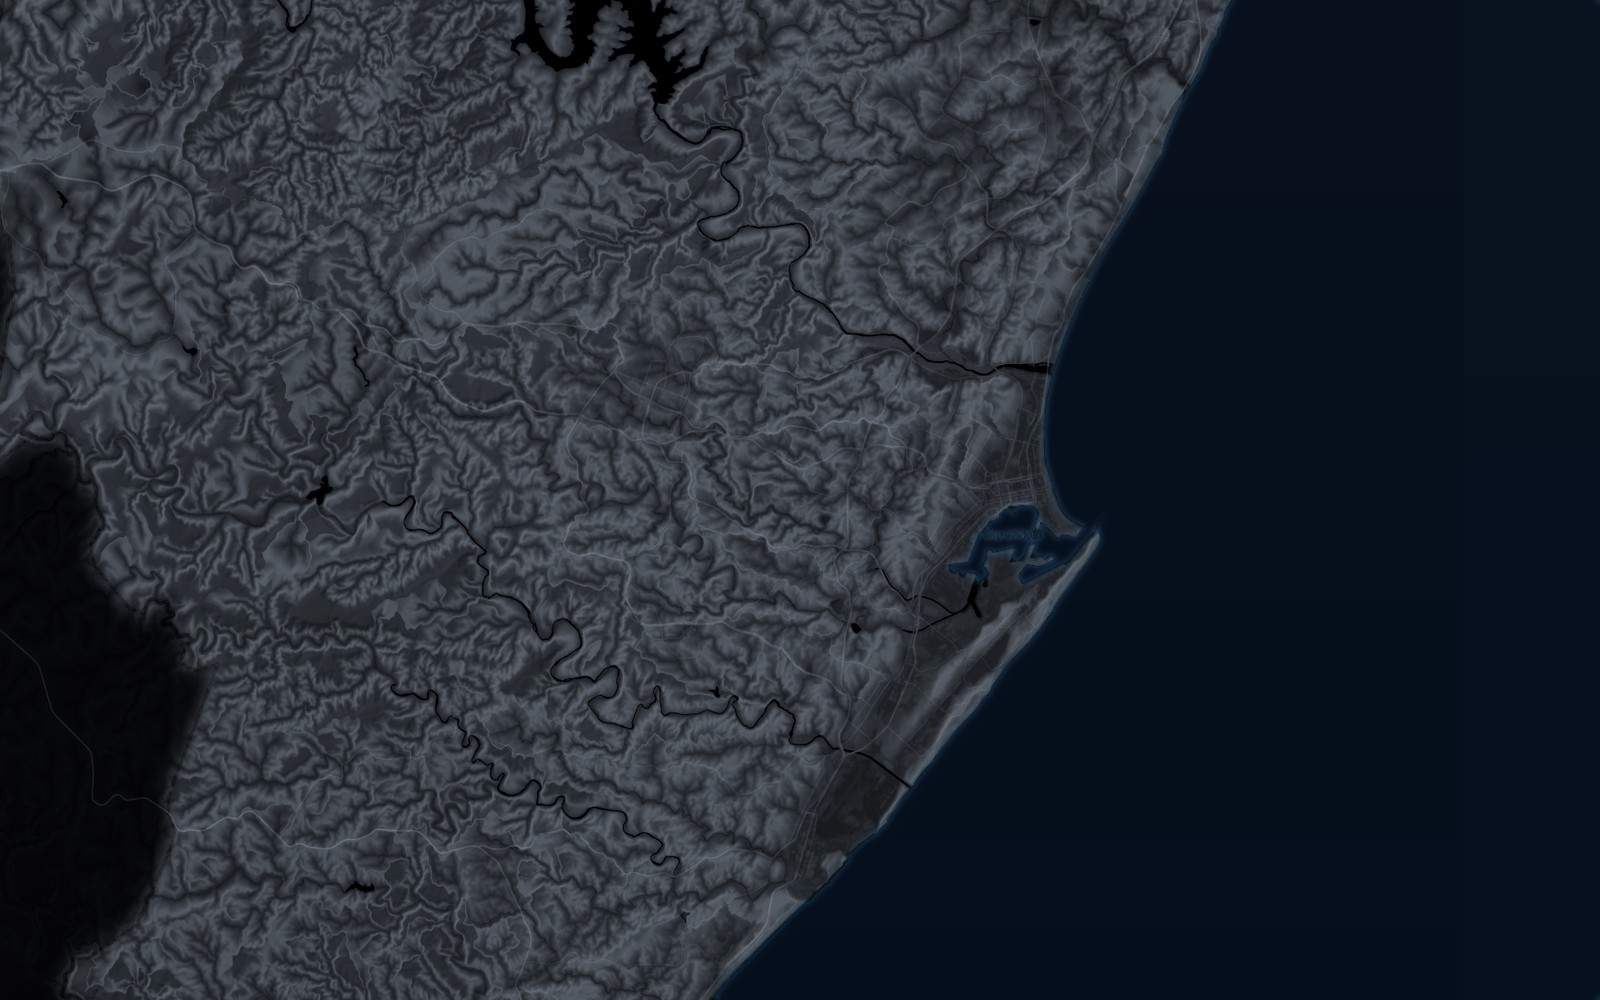
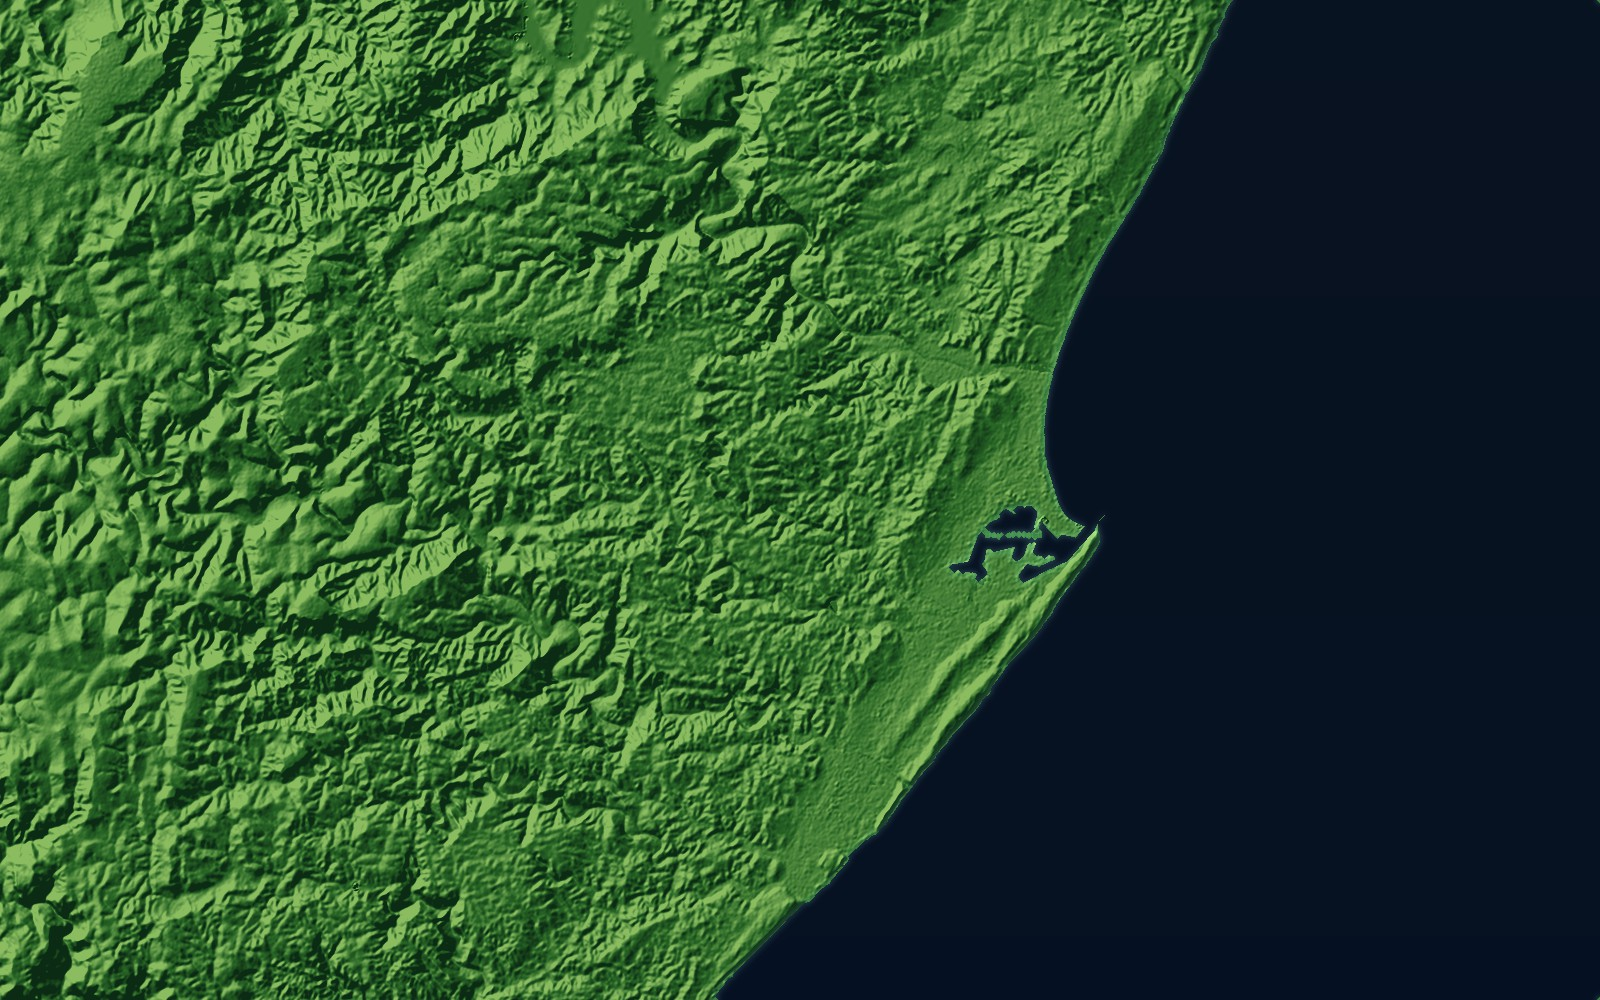
Veins mockup: lush green terrain, sites drop first, flood-line sites pulse, satellite last

diff --git a/mockups/map-open/veins-mockup.html b/mockups/map-open/veins-mockup.html
@@ -34,37 +34,41 @@ h1{margin:0;font:800 clamp(24px,3.4vw,34px)/1.05 var(--sans);letter-spacing:-.03
 </style>
 
 <div class="wrap">
-  <header><div><p class="kick">Moved Into the Water · design only</p><h1>Opening: the flood line grows in from the sea</h1></div><span class="tag">Live mockup · not the site</span></header>
+  <header><div><p class="kick">Moved Into the Water · design only</p><h1>Opening: sites land, the flood line grows in from the sea</h1></div><span class="tag">Live mockup · not the site</span></header>
   <div class="stage" id="stage">
     <canvas id="c"></canvas>
     <div class="ctl"><button type="button" id="replay">↺ Replay</button><label><input type="checkbox" id="anim" checked aria-label="Animation on or off">Animation</label></div>
-    <div class="cap" aria-live="polite"><div class="k" id="ck">Durban, South Africa</div><h2 id="ch">A coastal city</h2><p id="cp">Where twelve rivers meet the Indian Ocean.</p></div>
+    <div class="cap" aria-live="polite"><div class="k" id="ck">Durban, South Africa</div><h2 id="ch">A coastal city</h2><p id="cp">Green hills running down to the Indian Ocean.</p></div>
     <div class="bar"><i id="bar"></i></div>
     <div class="cr">Basemap: Esri, HERE, Garmin, © OpenStreetMap · flood line and rivers: eThekwini Municipality · relief: AWS Terrain Tiles</div>
   </div>
   <section class="notes">
-    <div class="note"><h3>How it moves</h3><p>The map opens still. Then the city's own rivers and 1-in-100-year flood plain spread inland from the coast, following the water, with a bright front like veins. The 12 relocation sites land as the water reaches them.</p></div>
+    <div class="note"><h3>How it moves</h3><p>A lush green coastal map opens. The 12 relocation sites drop in. Then the city's own rivers and 1-in-100-year flood plain grow inland from the coast like veins; each site within 250 m of the flood line pulses red as the water reaches it. Real satellite colour arrives last.</p></div>
     <div class="note"><h3>On or off</h3><p>The Animation switch turns motion off and shows the finished map at once (and it is off automatically for anyone whose device asks for reduced motion). Replay runs it again.</p></div>
     <div class="note"><h3>What is real</h3><p>Every pixel of water is the city's real flood plain and river network, and the sites are their real positions. The growth from the sea is an animation of the map appearing, not a flood simulation.</p></div>
   </section>
 </div>
 
 <script>
-const PINS=[{"name": "Lamontville riverside camp", "x": 835.4, "y": 747.0, "g": 0.05367052280809434}, {"name": "Larger Gwala Street camp", "x": 837.0, "y": 745.2, "g": 0.12442040032722143}, {"name": "Lindelani camp", "x": 811.4, "y": 120.8, "g": 0.34763957513939786}, {"name": "Congo camp", "x": 812.1, "y": 62.5, "g": 0.3748291869283738}, {"name": "Astra Building", "x": 993.7, "y": 494.4, "g": 0.0630201793713017}, {"name": "Crystal Valley", "x": 891.9, "y": 363.4, "g": 0.1957089599283343}, {"name": "Point Road", "x": 1062.8, "y": 521.1, "g": 0.05293491610007834}, {"name": "Bayside Hotel", "x": 1036.3, "y": 487.3, "g": 0.06101900333819297}, {"name": "KwaDimba", "x": 555.5, "y": 481.6, "g": 0.2599619173219682}, {"name": "Frazer Compound", "x": 1268.5, "y": -355.0, "g": 0.04625208846375037}, {"name": "Montclair Lodge", "x": 897.6, "y": 656.1, "g": 0.1344377437204083}, {"name": "Umbilo residence", "x": 925.7, "y": 571.2, "g": 0.06829158325031658}];
-const BEATS=[[0,'Durban, South Africa','A coastal city','Where twelve rivers meet the Indian Ocean.'],
- [.12,'The water finds its way','The flood line grows in from the sea','The city’s own 1-in-100-year flood plain, spreading up every river valley.'],
- [.62,'Where people were moved','Temporary relocation sites','Families moved after floods, to sites the city called temporary.'],
- [.9,'Now you explore','Click any site to inspect','Every layer together: sites, flood line, rivers and terrain.']];
-const DUR=14000, HOLD=0.08; // ms for the whole sequence; first 8% is the still opening shot
+const PINS=[{"id": "lamontville", "name": "Lamontville riverside camp", "x": 835.4, "y": 747.0, "g": 0.05367052280809434}, {"id": "gwala", "name": "Larger Gwala Street camp", "x": 837.0, "y": 745.2, "g": 0.12442040032722143}, {"id": "lindelani", "name": "Lindelani camp", "x": 811.4, "y": 120.8, "g": 0.34763957513939786}, {"id": "congo", "name": "Congo camp", "x": 812.1, "y": 62.5, "g": 0.3748291869283738}, {"id": "astra", "name": "Astra Building", "x": 993.7, "y": 494.4, "g": 0.0630201793713017}, {"id": "crystal", "name": "Crystal Valley", "x": 891.9, "y": 363.4, "g": 0.1957089599283343}, {"id": "point", "name": "Point Road", "x": 1062.8, "y": 521.1, "g": 0.05293491610007834}, {"id": "bayside", "name": "Bayside Hotel", "x": 1036.3, "y": 487.3, "g": 0.06101900333819297}, {"id": "kwadimba", "name": "KwaDimba", "x": 555.5, "y": 481.6, "g": 0.2599619173219682}, {"id": "frazer", "name": "Frazer Compound", "x": 1268.5, "y": -355.0, "g": 0.04625208846375037}, {"id": "montclair", "name": "Montclair Lodge", "x": 897.6, "y": 656.1, "g": 0.1344377437204083}, {"id": "umbilo", "name": "Umbilo residence", "x": 925.7, "y": 571.2, "g": 0.06829158325031658}];
+const BEATS=[[0,'Durban, South Africa','A coastal city','Green hills running down to the Indian Ocean.'],
+ [.07,'Where people were moved','Temporary relocation sites','After each flood, families were moved to sites the city called temporary.'],
+ [.22,'The water finds its way','The flood line grows in from the sea','The city’s own 1-in-100-year flood plain, spreading up every river valley.'],
+ [.5,'Where they meet','Six of the 12 sites sit at the flood line','Within 250 m of the city’s own flood map. Each one pulses as the water reaches it.'],
+ [.74,'The ground itself','The real terrain','Satellite imagery: the land as it looks today.'],
+ [.92,'Now you explore','Click any site to inspect','Every layer together: sites, flood line, rivers and terrain.']];
+const DUR=20000;
+/* sites within 250 m of the flood line (distance from the pin, see the site's Flood Risk tab) */
+const NEAR={lamontville:'2 m',kwadimba:'37 m',gwala:'56 m',lindelani:'59 m',crystal:'60 m',frazer:'160 m'}; // ms for the whole sequence; first 8% is the still opening shot
 const cv=document.getElementById('c'), x=cv.getContext('2d'), stage=document.getElementById('stage');
 const animEl=document.getElementById('anim'); let t0=performance.now(), raf=0, done=false;
 if(matchMedia('(prefers-reduced-motion: reduce)').matches) animEl.checked=false;
 const load=s=>new Promise(r=>{const i=new Image(); i.onload=()=>r(i); i.src=s;});
-let base,water,lab,G,WD,off,octx,img;
+let base,water,lab,sat,G,WD,off,octx,img;
 const W=1600,H=1000;
 function size(){ const r=stage.getBoundingClientRect(), d=Math.min(2,devicePixelRatio||1); cv.width=Math.round(r.width*d); cv.height=Math.round(r.height*d); }
 (async()=>{
-  [base,water,lab]=await Promise.all([load('veins/base.jpg'),load('veins/water.png'),load('veins/labels.png')]);
+  [base,water,lab,sat]=await Promise.all([load('veins/base.jpg'),load('veins/water.png'),load('veins/labels.png'),load('veins/sat.jpg')]);
   const dimg=await load('veins/dist.png');
   // decode the 16-bit growth field and the water layer once
   const t=document.createElement('canvas'); t.width=W; t.height=H; const tc=t.getContext('2d');
@@ -74,39 +78,49 @@ function size(){ const r=stage.getBoundingClientRect(), d=Math.min(2,devicePixel
   size(); addEventListener('resize',()=>{size(); frame(performance.now());});
   run();
 })();
-function run(){ cancelAnimationFrame(raf); done=false; t0=performance.now(); raf=requestAnimationFrame(frame); }
+function run(){ cancelAnimationFrame(raf); done=false; window._lg=-1; t0=performance.now(); raf=requestAnimationFrame(frame); }
 function caption(p){ let b=BEATS[0]; for(const q of BEATS) if(p>=q[0]) b=q; const ch=document.getElementById('ch');
   if(ch.textContent!==b[2]){ ['ck','ch','cp'].forEach(id=>document.getElementById(id).style.opacity=0);
     setTimeout(()=>{ document.getElementById('ck').textContent=b[1]; ch.textContent=b[2]; document.getElementById('cp').textContent=b[3]; ['ck','ch','cp'].forEach(id=>document.getElementById(id).style.opacity=1); },350); } }
 function frame(now){
   const p=animEl.checked?Math.min(1,(now-t0)/DUR):1;
-  const q=Math.max(0,Math.min(1,(p-HOLD)/(.62-HOLD))), g=Math.pow(q,1.7)*1.15;          // growth front, 0 → past 1 by 60% of the run
+  const q=Math.max(0,Math.min(1,(p-.22)/(.7-.22))), g=Math.pow(q,1.6)*1.15;   // flood front
   const sk=cv.width/W; x.setTransform(sk,0,0,sk,0,(cv.height-H*sk)/2);
-  // slow push-in: 1.06 → 1.0 over the run
-  const z=1.06-.06*Math.min(1,p*1.2); x.translate(W/2,H/2); x.scale(z,z); x.translate(-W/2,-H/2);
+  const z=1.06-.06*Math.min(1,p*1.3); x.translate(W/2,H/2); x.scale(z,z); x.translate(-W/2,-H/2);
   x.drawImage(base,0,0,W,H);
-  // water revealed where its distance from the sea is behind the front; a bright band rides the front
+  const sa=Math.max(0,Math.min(1,(p-.74)/.14));                                     // real terrain last
+  if(sa>0){ x.globalAlpha=sa*.92; x.drawImage(sat,0,0,W,H); x.globalAlpha=1; }
+  // water revealed behind the front; a bright band rides it
   const s=WD.data, o=img.data, band=.045;
+  if(g!==window._lg||sa!==window._ls){ window._lg=g; window._ls=sa;
   for(let i=0,j=0;i<W*H;i++,j+=4){ const a=s[j+3]; if(!a){ o[j+3]=0; continue; } const d=G[i], k=(g-d)/band;
     if(k<=0){ o[j+3]=0; continue; }
     const front=k<1?1-k:0, rev=Math.min(1,k);
-    o[j]=Math.min(255,s[j]+front*150); o[j+1]=Math.min(255,s[j+1]+front*120); o[j+2]=255; o[j+3]=Math.min(255,a*rev+front*120); }
-  octx.putImageData(img,0,0);
+    o[j]=Math.min(255,s[j]+front*150); o[j+1]=Math.min(255,s[j+1]+front*120); o[j+2]=255; o[j+3]=Math.min(255,(a*rev+front*120)*(1-sa*.25)); }
+  octx.putImageData(img,0,0); }
   x.save(); x.shadowColor='rgba(80,170,255,.75)'; x.shadowBlur=10; x.drawImage(off,0,0); x.restore();
   x.globalAlpha=.85; x.drawImage(lab,0,0,W,H); x.globalAlpha=1;
-  // sites land once the front has passed them (and not before 62%)
-  const sp=Math.max(0,(p-.6)/.25);
-  PINS.forEach((q,i)=>{ const local=Math.max(0,Math.min(1,sp*1.6-i*.05)); if(local<=0) return;
-    const e=1-Math.pow(1-local,3), drop=(1-e)*-120, ring=local<1?local:0;
+  // sites drop first (7%–20%), then pulse once the flood front reaches them
+  const sp=Math.max(0,(p-.07)/.13);
+  PINS.forEach((q,i)=>{ const local=Math.max(0,Math.min(1,sp*1.7-i*.06)); if(local<=0) return;
+    const e=1-Math.pow(1-local,3), drop=(1-e)*-140, ring=local<1?local:0;
     x.fillStyle='rgba(0,0,0,'+(.45*e)+')'; x.beginPath(); x.ellipse(q.x,q.y+3,7*e,2.4*e,0,0,7); x.fill();
-    if(ring){ x.strokeStyle='rgba(251,201,0,'+(1-ring)+')'; x.lineWidth=2; x.beginPath(); x.arc(q.x,q.y,6+ring*24,0,7); x.stroke(); }
-    x.beginPath(); x.arc(q.x,q.y+drop,6.5,0,7); x.fillStyle='#FBC900'; x.shadowColor='rgba(251,201,0,.9)'; x.shadowBlur=14; x.fill(); x.shadowBlur=0; x.lineWidth=2; x.strokeStyle='#0b0e14'; x.stroke(); });
+    if(ring){ x.strokeStyle='rgba(251,201,0,'+(1-ring)+')'; x.lineWidth=2; x.beginPath(); x.arc(q.x,q.y,6+ring*20,0,7); x.stroke(); }
+    const hit=NEAR[q.id] && g>=q.g;
+    if(hit){ const age=(now/1000)%1.6/1.6; for(const ph of [0,.5]){ const k2=(age+ph)%1; x.strokeStyle='rgba(255,107,94,'+(.85*(1-k2))+')'; x.lineWidth=2.5; x.beginPath(); x.arc(q.x,q.y,8+k2*42,0,7); x.stroke(); }
+      x.fillStyle='rgba(255,107,94,.18)'; x.beginPath(); x.arc(q.x,q.y,14,0,7); x.fill(); }
+    x.beginPath(); x.arc(q.x,q.y+drop,6.5,0,7); x.fillStyle=hit?'#ff6b5e':'#FBC900'; x.shadowColor=hit?'rgba(255,107,94,.9)':'rgba(251,201,0,.9)'; x.shadowBlur=14; x.fill(); x.shadowBlur=0; x.lineWidth=2; x.strokeStyle='#0b0e14'; x.stroke(); });
+  // labels for the pulsing sites, placed so they do not overlap
+  const used=[]; PINS.filter(q=>NEAR[q.id]&&g>=q.g).forEach(q=>{ let lx=q.x+18, ly=q.y-10; while(used.some(u=>Math.abs(u[1]-ly)<30&&Math.abs(u[0]-lx)<190)) ly-=30; used.push([lx,ly]);
+    const t1=NEAR[q.id]+' from the flood line'; x.font='600 12px Inter'; const w=Math.max(x.measureText(q.name).width,x.measureText(t1).width)+16;
+    x.fillStyle='rgba(6,10,17,.82)'; x.strokeStyle='rgba(255,107,94,.6)'; x.lineWidth=1; x.beginPath(); x.roundRect(lx,ly-14,w,34,6); x.fill(); x.stroke();
+    x.fillStyle='#fff'; x.fillText(q.name,lx+8,ly+1); x.font='500 11px Inter'; x.fillStyle='#ff9b90'; x.fillText(t1,lx+8,ly+15); });
   // vignette and caption shade
   x.setTransform(sk,0,0,sk,0,(cv.height-H*sk)/2);
   const v=x.createRadialGradient(W/2,H/2,H*.35,W/2,H/2,H*.95); v.addColorStop(0,'rgba(0,0,0,0)'); v.addColorStop(1,'rgba(0,0,0,.5)'); x.fillStyle=v; x.fillRect(0,0,W,H);
   const lg=x.createLinearGradient(0,H,0,H*.5); lg.addColorStop(0,'rgba(5,8,13,.85)'); lg.addColorStop(1,'rgba(5,8,13,0)'); x.fillStyle=lg; x.fillRect(0,H*.5,W*.6,H*.5);
   document.getElementById('bar').style.width=(p*100)+'%'; caption(p);
-  if(p<1) raf=requestAnimationFrame(frame); else done=true; }
+  raf=requestAnimationFrame(frame); done=p>=1; }
 document.getElementById('replay').onclick=()=>{ animEl.checked=true; run(); };
-animEl.onchange=()=>{ if(animEl.checked) run(); else { cancelAnimationFrame(raf); frame(performance.now()); } };
+animEl.onchange=()=>{ if(animEl.checked) run(); else { cancelAnimationFrame(raf); raf=requestAnimationFrame(frame); } };
 </script>

diff --git a/mockups/map-open/build_veins.py b/mockups/map-open/build_veins.py
@@ -21,11 +21,16 @@ def place(im, b, size=(W, H)):
     c = Image.new(im.mode, size, (0, 0, 0, 0) if im.mode == "RGBA" else 0); c.paste(big, (int(x0), int(y0))); return c
 # ---- base: dark canvas + relief (soft light) + deep ocean gradient + labels
 dark = place(Image.open(os.path.join(IMG, "dark.png")).convert("RGB"), BOX)
-rel = place(Image.open(os.path.join(IMG, "relief.jpg")).convert("RGB"), META["relief"])
+rel = place(Image.open(os.path.join(IMG, "hillshade.png")).convert("RGB"), BOX)  # fresh hillshade, AWS Terrain Tiles
 D = np.asarray(dark, np.float32) / 255; R = np.asarray(rel, np.float32) / 255; L = R.mean(2, keepdims=True)
-L = np.where(R.sum(2, keepdims=True) < .02, .5, L)
+
 soft = np.where(L < .5, D - (1 - 2 * L) * D * (1 - D), D + (2 * L - 1) * (np.sqrt(D) - D))
-base = np.clip(((soft - .5) * 1.25 + .5) * np.array([.86, .93, 1.0]) * .92, 0, 1)
+lum = np.clip((L - .55) * 1.6 + .5 + (D.mean(2, keepdims=True) - .3) * .4, 0, 1)
+# lush green ramp: deep valley green -> sunlit ridge green, shaded by the real terrain
+lo, mid, hi = np.array([.05, .17, .08]), np.array([.16, .40, .15]), np.array([.55, .74, .38])
+base = np.where(lum < .5, lo + (mid - lo) * (lum / .5), mid + (hi - mid) * ((lum - .5) / .5))
+base = np.clip(base, 0, 1)
+
 # ocean mask from the city's ocean polygons
 def poly_mask(rings, scale=2):
     m = Image.new("L", (W * scale, H * scale), 0); d = ImageDraw.Draw(m)
@@ -39,11 +44,11 @@ sea = np.maximum(ocean, ((D.mean(2) < .17) & (np.arange(W)[None, :] > W * .55)).
 sea = ndimage.binary_opening(sea > .5, iterations=3).astype(np.float32)
 yy = np.linspace(0, 1, H)[:, None, None]
 ocean_col = np.array([.035, .075, .13]) * (1 - .35 * yy) + np.array([.0, .02, .05]) * yy
-base = base * (1 - sea[..., None] * .85) + ocean_col * sea[..., None] * .85
+base = base * (1 - sea[..., None]) + ocean_col * sea[..., None]
 # soft coastline glow
 edge = ndimage.binary_dilation(sea > .5, iterations=2) ^ (sea > .5)
 glow = ndimage.gaussian_filter(edge.astype(np.float32), 3)[..., None]
-base = np.clip(base + glow * np.array([.25, .45, .6]) * .9, 0, 1)
+base = np.clip(base + glow * np.array([.55, .8, .75]) * .6, 0, 1)
 Image.fromarray((base * 255).astype(np.uint8)).save(os.path.join(OUT, "base.jpg"), quality=90)
 lab = place(Image.open(os.path.join(IMG, "labels.png")).convert("RGBA"), BOX); lab.save(os.path.join(OUT, "labels.png"))
 # ---- water layer: rivers (veins) and the flood plain, at 2x then down
@@ -82,6 +87,15 @@ g = np.clip(g / np.percentile(g[water], 99) , 0, 1)
 g16 = (g * 65535).astype(np.uint32)
 enc = np.zeros((H, W, 3), np.uint8); enc[..., 0] = g16 >> 8; enc[..., 1] = g16 & 255
 Image.fromarray(enc).save(os.path.join(OUT, "dist.png"))
-pins = [{"name": s["name"], "x": round(sx(mx(s["lon"])), 1), "y": round(sy(my(s["lat"])), 1), "g": float(g[min(H-1, max(0, int(sy(my(s["lat"]))))), min(W-1, max(0, int(sx(mx(s["lon"])))))])} for s in SITES]
+pins = [{"id": s["id"], "name": s["name"], "x": round(sx(mx(s["lon"])), 1), "y": round(sy(my(s["lat"])), 1), "g": float(g[min(H-1, max(0, int(sy(my(s["lat"]))))), min(W-1, max(0, int(sx(mx(s["lon"])))))])} for s in SITES]
 json.dump(pins, open(os.path.join(OUT, "pins.json"), "w"))
 print("ok", n, len(seaid), round(float(sea.mean()), 3))
+
+# satellite layer (real ground colour) for the final beat, from the landing basemap
+lm = open(os.path.join(H0, "..", "..", "viz-wandile", "data", "landing-meta.js"), encoding="utf8").read()
+BASEBOX = json.loads(re.search(r"const BASE = (\[[^\]]*\]);", lm).group(1))
+sat = place(Image.open(os.path.join(H0, "..", "..", "viz-wandile", "assets", "basemap.jpg")).convert("RGB"), BASEBOX)
+Sa = np.asarray(sat, np.float32) / 255
+Sa = Sa * (1 - sea[..., None]) + ocean_col * sea[..., None]
+Image.fromarray((np.clip(Sa, 0, 1) * 255).astype(np.uint8)).save(os.path.join(OUT, "sat.jpg"), quality=86)
+print("sat ok")
